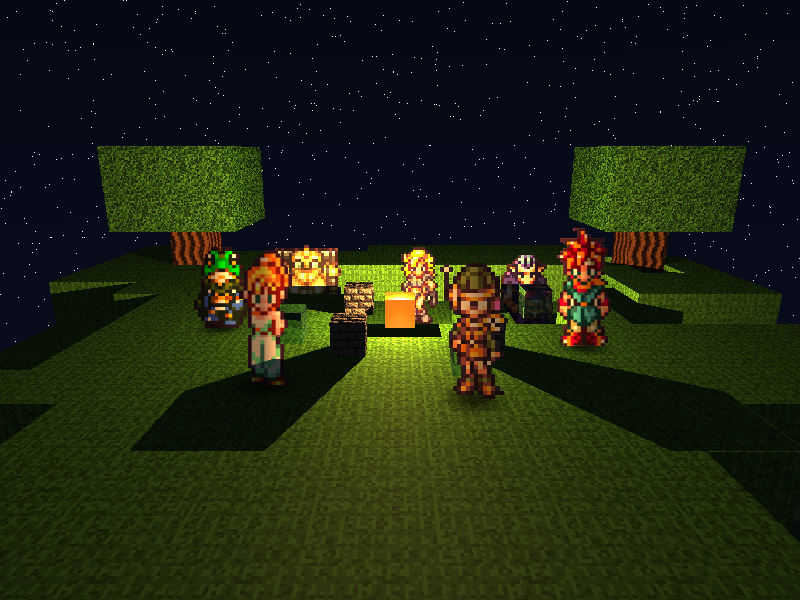
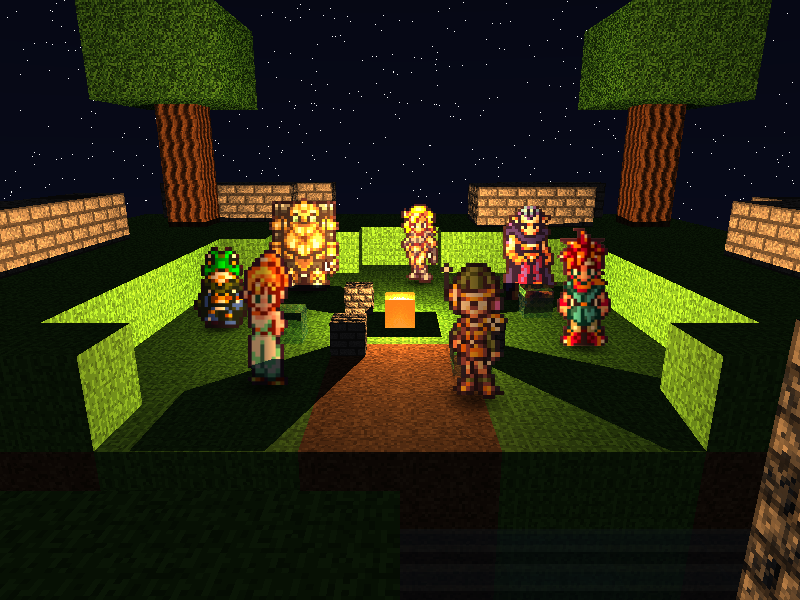
feat(terrain): Se implementan columnas rellenas, bordes sólidos de isla, camino de tierra y arroyo reflectivo.

diff --git a/src/procedural.rs b/src/procedural.rs
@@ -9,10 +9,12 @@ pub struct TerrainPalette {
     pub stone: Material,
     pub sand: Material,
     pub snow: Material,
+    pub water: Material,
 }
 
-/// Genera un terreno de `width` x `depth` cubos (mínimo 16x16 según rúbrica),
-/// con altura y material determinados por ruido Fbm/OpenSimplex.
+/// Genera un terreno de `width` x `depth` cubos con relieve procedural,
+/// columnas rellenas (sin huecos), bordes sólidos hasta y=0 estilo isla flotante,
+/// un claro plano para el campamento, un camino de tierra y un arroyo hundido con agua reflectiva.
 pub fn generate_terrain(
     width: i32,
     depth: i32,
@@ -22,33 +24,139 @@ pub fn generate_terrain(
     palette: &TerrainPalette,
 ) -> Vec<Cube> {
     let noise_fn: Fbm<OpenSimplex> = Fbm::new(seed);
-    let mut cubes = Vec::with_capacity((width * depth) as usize);
+    let total_cols = (width * depth) as usize;
 
-    for x in 0..width {
-        for z in 0..depth {
-            let nx = x as f64 * scale;
-            let nz = z as f64 * scale;
-            let h = noise_fn.get([nx, nz]); // rango [-1, 1]
-            let y = (((h * 0.5 + 0.5) * max_height as f64).floor() as i32)
-                .clamp(0, max_height);
+    let mut height_map = vec![2i32; total_cols];
+    let mut material_map = vec![palette.grass; total_cols];
+    let mut is_water_map = vec![false; total_cols];
 
-            let material = if y >= max_height {
-                palette.stone
-            } else if y >= 1 {
-                palette.grass
+    // Paso 1: Determinar altura superficial (y_top), material superficial y si es arroyo
+    for z in 0..depth {
+        for x in 0..width {
+            let idx = (z * width + x) as usize;
+            let wx = x as f32 - width as f32 * 0.5;
+            let wz = z as f32 - depth as f32 * 0.5;
+            let cx = wx + 0.5;
+            let cz = wz + 0.5;
+            let dist_center = (cx * cx + cz * cz).sqrt();
+
+            // 1. Arroyo: franja de 1-2 bloques de ancho que cruza el mapa por un lado del claro
+            // Ubicado en z = 12 y 13 (wz en [4.0, 6.0]), hundido 1 bloque respecto al terreno
+            let in_stream = z == 12 || z == 13;
+
+            // 2. Camino de tierra: franja de dirt de ~2 bloques de ancho desde el borde sur (z=15)
+            // hasta el claro de la fogata (z <= 10), ligeramente curva.
+            let in_path = if z >= 14 {
+                x == 8 || x == 9
+            } else if z == 11 {
+                x == 7 || x == 8
+            } else if z == 10 || z == 9 {
+                x == 7 || x == 8
             } else {
-                palette.dirt
+                false
             };
 
-            cubes.push(Cube::new(
-                Vector3::new(
-                    x as f32 - width as f32 * 0.5,
-                    y as f32,
-                    z as f32 - depth as f32 * 0.5,
-                ),
-                1.0,
-                material,
-            ));
+            if in_stream {
+                // El arroyo está hundido 1 bloque respecto al terreno/claro (y=1 vs y=2)
+                height_map[idx] = 1;
+                // Fondo de dirt con toques de stone
+                let bed_mat = if (x + z) % 3 == 0 { palette.stone } else { palette.dirt };
+                material_map[idx] = bed_mat;
+                is_water_map[idx] = true;
+            } else if in_path {
+                // Camino de tierra: a nivel del claro (y=2), sin textura de pasto
+                height_map[idx] = 2;
+                material_map[idx] = palette.dirt;
+            } else if dist_center <= 3.5 {
+                // Claro aplanado de ~5x5 alrededor de la fogata (y=2, superficie en Y=3.0)
+                height_map[idx] = 2;
+                material_map[idx] = palette.grass;
+            } else {
+                // Relieve con colinas suaves de 2-3 bloques de desnivel
+                let nx = cx as f64 * scale;
+                let nz = cz as f64 * scale;
+                let n = noise_fn.get([nx, nz]); // [-1.0, 1.0]
+
+                // Transición suave desde el claro hacia las colinas exteriores
+                let blend = ((dist_center - 3.5) / 2.5).clamp(0.0, 1.0);
+                // Altura base 2 + colinas de 2-3 bloques adicionales
+                let hill = (n * 0.5 + 0.5) * 2.8;
+                let y = (2.0 + blend as f64 * hill).round() as i32;
+                let y_clamped = y.clamp(2, max_height.max(5));
+
+                height_map[idx] = y_clamped;
+                if y_clamped >= 4 {
+                    // Picos y crestas de roca
+                    material_map[idx] = palette.stone;
+                } else {
+                    material_map[idx] = palette.grass;
+                }
+            }
+        }
+    }
+
+    // Paso 2: Generar columnas rellenas
+    // En cada columna, además del cubo superior, agregá cubos hacia abajo SOLO hasta
+    // la altura del vecino más bajo (mínimo 1 cubo debajo).
+    // Los bordes exteriores del terreno deben bajar hasta y=0 (estilo isla flotante).
+    let mut cubes = Vec::with_capacity(total_cols * 3);
+
+    for z in 0..depth {
+        for x in 0..width {
+            let idx = (z * width + x) as usize;
+            let y_top = height_map[idx];
+            let is_border = x == 0 || x == width - 1 || z == 0 || z == depth - 1;
+
+            let y_bottom = if is_border {
+                0
+            } else {
+                // Altura mínima entre los 4 vecinos ortogonales
+                let n_left  = height_map[(z * width + (x - 1)) as usize];
+                let n_right = height_map[(z * width + (x + 1)) as usize];
+                let n_up    = height_map[((z - 1) * width + x) as usize];
+                let n_down  = height_map[((z + 1) * width + x) as usize];
+                let min_neighbor = n_left.min(n_right).min(n_up).min(n_down);
+
+                // Mínimo 1 cubo debajo: (y_top - 1).min(min_neighbor), no menor a 0
+                (y_top - 1).min(min_neighbor).max(0)
+            };
+
+            let wx = x as f32 - width as f32 * 0.5;
+            let wz = z as f32 - depth as f32 * 0.5;
+
+            // Rellenar la columna desde y_bottom hasta y_top
+            for y in y_bottom..=y_top {
+                let material = if y == y_top {
+                    material_map[idx]
+                } else if y == y_top - 1 {
+                    // Capa inmediata subsuperficial: dirt (o stone si la superficie es roca)
+                    if material_map[idx].albedo == palette.stone.albedo {
+                        palette.stone
+                    } else {
+                        palette.dirt
+                    }
+                } else {
+                    // Estratos inferiores y acantilados profundos: stone
+                    palette.stone
+                };
+
+                cubes.push(Cube::new(
+                    Vector3::new(wx, y as f32, wz),
+                    1.0,
+                    material,
+                ));
+            }
+
+            // Capa de agua plana a ras (cubo achatado ~0.1) si es arroyo
+            if is_water_map[idx] {
+                // El fondo del arroyo está en y=1 (su cara superior en Y=2.0).
+                // El agua plana se coloca sobre el fondo (Y=2.0 a 2.1).
+                cubes.push(Cube::new_box(
+                    Vector3::new(wx, 2.0, wz),
+                    Vector3::new(1.0, 0.1, 1.0),
+                    palette.water,
+                ));
+            }
         }
     }
 

diff --git a/src/scene.rs b/src/scene.rs
@@ -56,42 +56,37 @@ impl Scene {
         let mut cubes = Vec::new();
 
         // --- Terreno procedural (20 pts) ---
-        // Reutiliza generate_terrain ya probado en clase.
+        // Reutiliza generate_terrain con columnas rellenas, colinas, camino y arroyo.
         let terrain = procedural::generate_terrain(
-            16, 16, 4, 0.15, 1234,
+            16, 16, 5, 0.18, 1234,
             &procedural::TerrainPalette {
                 grass: mats.grass,
                 dirt: mats.dirt,
                 stone: mats.stone,
                 sand: mats.dirt, // sin playa en este bioma; se reusa dirt
                 snow: mats.stone, // sin nieve en este bioma; se reusa stone
+                water: mats.water,
             },
         );
         cubes.extend(terrain);
 
         // --- Árboles (4 esquinas, como en la referencia de Chrono Trigger) ---
         for &(x, z) in &[(-6.0, -6.0), (6.0, -6.0), (-6.0, 6.0), (6.0, 6.0)] {
-            cubes.extend(Self::tree(Vector3::new(x, 1.0, z), &mats));
+            let tree_y = terrain_height_at(&cubes, x, z);
+            cubes.extend(Self::tree(Vector3::new(x, tree_y, z), &mats));
         }
 
-        let ground_y = 3.0;
+        let ground_y = terrain_height_at(&cubes, 0.0, 0.0);
         // --- Círculo de piedras + fogata al centro (emisivo) ---
         for &(x, z) in &[(-1.0, -1.0), (1.0, -1.0), (-1.0, 1.0), (1.0, 1.0)] {
             cubes.push(Cube::new(Vector3::new(x, ground_y, z), 0.5, mats.stone));
         }
         cubes.push(Cube::new(Vector3::new(-0.25, ground_y, -0.25), 0.5, mats.campfire));
 
-        // --- Cristales/gemas tirados cerca de la fogata y el charco (refracción + reflexión) ---
+        // --- Cristales/gemas tirados cerca de la fogata (refracción + reflexión) ---
         for &(x, z) in &[(-2.0, 0.5), (2.2, -0.8), (0.7, 1.7)] {
             cubes.push(Cube::new(Vector3::new(x, ground_y, z), 0.5, mats.gem));
         }
-
-        // --- Charco de agua a ras de suelo en depresión (reflexión) ---
-        cubes.push(Cube::new_box(
-            Vector3::new(3.0, 2.01, 3.0),
-            Vector3::new(2.8, 0.09, 2.8),
-            mats.water,
-        ));
 
         // --- Luces ---
         let lights = vec![Light::campfire(Vector3::new(0.0, ground_y + 0.8, 0.0))];
